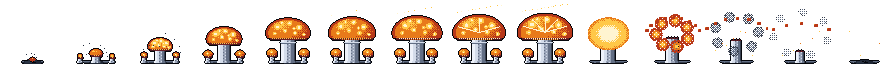
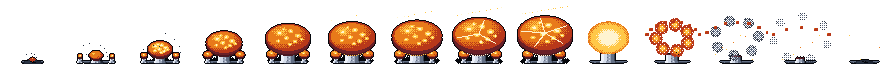
Doomcap is drawn from above, in the game's three-quarter view
Eric: "doomcap should draw the mushroom sprite at an angle, it is odd to see
something so large from the side like that." The titan now shows its cap's
top as a foreshortened dome (0.62 of its width) lit from the upper left with
its spots spread over it, the cap's thickness only at its front edge in the
gills' shadow tones with a sliver of glowing gills under it, a short stem, and
a shadow dithered on the bare ground under it; its two little side caps the
same. Every frame: sprout, swell (the cracks run out across the top) and
burst. Opaque ramp stops and Bayer dither only; palette clean. The small caps
and Giant Caps keep their side view - Doomcap replaces the scatter and wins
over Giant Caps, so the two views never share the ground.

Claude-Session: https://claude.ai/code/session_01YXZmSHQrdLtKkMEcduos8u

diff --git a/tools/art/spore_mushrooms.py b/tools/art/spore_mushrooms.py
@@ -233,12 +233,123 @@ def side_caps(c, s, v, grow):
     for side in (-1, 1):
         bx = s.cx + side * (s.hw + 9)
         h = int(4 + 4 * grow)
+        if s.titan:
+            # Seen from above as the titan is: a short stem under a foreshortened cap.
+            rx = 4.5 * grow + 1
+            stem(c, int(bx), s.base, s.base - 4, 1.5)
+            cap_top(c, bx, s.base - 5 - rx * TOP_SQUASH, rx, rx * TOP_SQUASH, 1, v, spots=[(-0.2, -0.3, 0.7)])
+            continue
         stem(c, int(bx), s.base, s.base - h, 1.5)
         cap(c, bx, s.base - h - 1, 4.5 * grow + 1, 3.2 * grow + 1, v, spots=[(-0.2, -0.3, 0.7)])
 
 
+# --- the Doomcap, seen from above (2026-10-31) -----------------------------------------------
+# Eric: "doomcap should draw the mushroom sprite at an angle, it is odd to see something so large from
+# the side like that." A small cap drawn side-on reads as a mushroom; one the width of a pack, drawn the
+# same way, read as a cut-out stood on its edge. The titan is drawn in the game's own three-quarter view
+# instead: the cap's top as a foreshortened dome (TOP_SQUASH of its width), lit from the upper left, its
+# spots spread over the whole top; its thickness showing only at its front edge, with a sliver of the
+# glowing gills under that; a short stem below; and a shadow dithered on the ground under it all. The
+# small caps and Giant Caps keep their side view: Doomcap replaces the scatter and wins over Giant Caps,
+# so the two views are never on the ground together.
+
+TOP_SQUASH = 0.62
+TITAN_TOP_SPOTS = [(-0.5, -0.42, 2.4), (0.12, -0.6, 2.0), (0.52, -0.2, 2.2), (-0.12, 0.02, 1.8),
+                   (0.36, 0.34, 1.5), (-0.56, 0.28, 1.4), (0.74, 0.12, 1.1), (-0.26, -0.78, 1.2),
+                   (0.08, 0.58, 1.3)]
+
+
+def titan_layout(s, scale, swell=1.0, dx=0):
+    """Where the titan's parts go at `scale` of full size: the cap's centre and radii, its thickness,
+    the row its front rim comes down to, and the cap's centre x."""
+    rx = max(2.5, s.rx * scale * swell)
+    ry = rx * TOP_SQUASH
+    t = max(1, int(round(4 * scale * swell)))
+    rim = s.base - max(2, int(round(7 * scale)))
+    cy = rim - t - ry
+    return s.cx + dx, cy, rx, ry, t, rim
+
+
+def cap_top(c, cx, cy, rx, ry, t, v, glow=0.0, spots=(), cracks=0):
+    """A cap seen from above and in front: its side `t` px deep at the front, the gills a sliver
+    under that, and the dome's top over both. Every tone a stop of the element ramp, blended by dither."""
+    ramp = v["cap"]
+    under = v["under"]
+
+    def inside(x, y, ox, oy, ax, ay):
+        nx = (x + 0.5 - ox) / ax
+        ny = (y + 0.5 - oy) / ay
+        return nx * nx + ny * ny <= 1.0
+
+    x0, x1 = int(cx - rx) - 1, int(cx + rx) + 2
+    # The gills: under the front of the cap, glowing as the cap swells.
+    for y in range(int(cy), int(cy + ry + t) + 3):
+        for x in range(x0, x1):
+            if inside(x, y, cx, cy + t + 1, rx * 0.9, ry) and not inside(x, y, cx, cy + t, rx, ry):
+                lit = (x - int(cx)) % 2 == 0 and glow > 0.2 and abs(x - cx) < rx * 0.6
+                c.set(x, y, (ramp[1] if glow < 0.6 else ramp[0]) if lit else under[1])
+    # The cap's side, seen at its front edge.
+    for y in range(int(cy), int(cy + ry + t) + 2):
+        for x in range(x0, x1):
+            if inside(x, y, cx, cy + t, rx, ry) and not inside(x, y, cx, cy, rx, ry):
+                # A stop darker than the top's rim, so the edge between the top and the side reads.
+                lower = not inside(x, y + 1, cx, cy + t, rx, ry)
+                c.set(x, y, under[1] if lower else under[0])
+    # The top: lit from the upper left, the rim a band of the ramp's edge.
+    hx, hy = cx - rx * 0.36, cy - ry * 0.42
+    body = [ramp[1], ramp[2], ramp[2], ramp[3]]
+    for y in range(int(cy - ry) - 1, int(cy + ry) + 2):
+        for x in range(x0, x1):
+            nx = (x + 0.5 - cx) / rx
+            ny = (y + 0.5 - cy) / ry
+            e = nx * nx + ny * ny
+            if e > 1.0:
+                continue
+            d = math.sqrt(((x - hx) / (rx * 1.25)) ** 2 + ((y - hy) / (ry * 1.25)) ** 2)
+            k = min(0.999, d) * (len(body) - 1)
+            i = int(k)
+            tone = body[i + 1] if (k - i) > dither(x, y) else body[i]
+            if e > 0.84:
+                tone = ramp[3]
+            c.set(x, y, tone)
+    # Spots over the whole top, foreshortened with it.
+    for (sx, sy, sr) in spots:
+        px, py = cx + sx * rx * 0.82, cy + sy * ry * 0.82
+        r = sr * (1.0 + glow * 0.5)
+        c.disc(px, py, r + 0.6, (r + 0.4) * TOP_SQUASH + 0.4, ramp[1])
+        c.disc(px, py, max(0.6, r * 0.6), max(0.6, r * 0.5 * TOP_SQUASH + 0.2), ramp[0])
+    # The warning: light splitting the top from the middle out.
+    for k in range(cracks):
+        a = TAU * (0.12 + k / float(max(1, cracks)))
+        for st in range(int(rx * 0.92)):
+            c.set(cx + math.cos(a) * st, cy + math.sin(a) * st * TOP_SQUASH, ramp[0])
+
+
+def ground_shadow(c, cx, base, rx, ry):
+    """The cap's shadow on the ground under it: occlusion, dithered to half, an ellipse at the foot."""
+    for y in range(int(base - ry) - 1, int(base + ry) + 2):
+        for x in range(int(cx - rx) - 1, int(cx + rx) + 2):
+            nx = (x + 0.5 - cx) / rx
+            ny = (y + 0.5 - base) / ry
+            # Only on bare ground: never over the roots and side caps drawn before it.
+            if nx * nx + ny * ny <= 1.0 and dither(x, y) < 0.5 and 0 <= y < c.h and 0 <= x < c.w \
+                    and not c.get(x, y)[3]:
+                c.set(x, y, OCC)
+
+
+def grown_titan(c, s, v, scale, glow=0.0, spots=True, cracks=0, dx=0, swell=1.0):
+    cx, cy, rx, ry, t, rim = titan_layout(s, scale, swell, dx)
+    ground_shadow(c, cx, s.base - 1, rx * 0.9, max(1.5, 4.0 * scale))
+    hw = max(1.0, s.hw * (0.45 + 0.55 * scale))
+    stem(c, cx, s.base, rim - 2, hw)
+    cap_top(c, cx, cy, rx, ry, t, v, glow=glow, spots=TITAN_TOP_SPOTS if spots else (), cracks=cracks)
+    return cx, cy, rx, ry
+
+
 def grown(c, s, v, scale, glow=0.0, spots=True, cracks=0, dx=0, swell=1.0):
     """The mushroom at `scale` of full size, standing on the cell's floor; `swell` inflates the cap."""
+    if s.titan:
+        return grown_titan(c, s, v, scale, glow=glow, spots=spots, cracks=cracks, dx=dx, swell=swell)
     h = max(2, s.stem_h * scale)
     hw = max(1.0, s.hw * (0.45 + 0.55 * scale))
     top = s.base - h
@@ -307,8 +418,11 @@ def burst_frame(s, v, i):
     cy = full_top - s.ry * 0.25
     if s.titan:
         roots(c, s, 12 - i)
+        # Seen from above: the flash and the spores where the cap was, over the short stem it tore off.
+        _cx, cy, _rx, _ry, _t, rim = titan_layout(s, 1.0)
+        full_top = rim - 2
     # What is left standing: a torn stem that withers back into the ground.
-    stem_top = [full_top, full_top + 1, full_top + 3, s.base - s.stem_h * 0.45, s.base - 3][i]
+    stem_top = [full_top, full_top + 1, full_top + 3, s.base - (s.base - full_top) * 0.45, s.base - 3][i]
     if i < 4:
         stem(c, s.cx, s.base, stem_top, s.hw * (1.0 - 0.12 * i), torn=True, under=v["under"])
     else:
